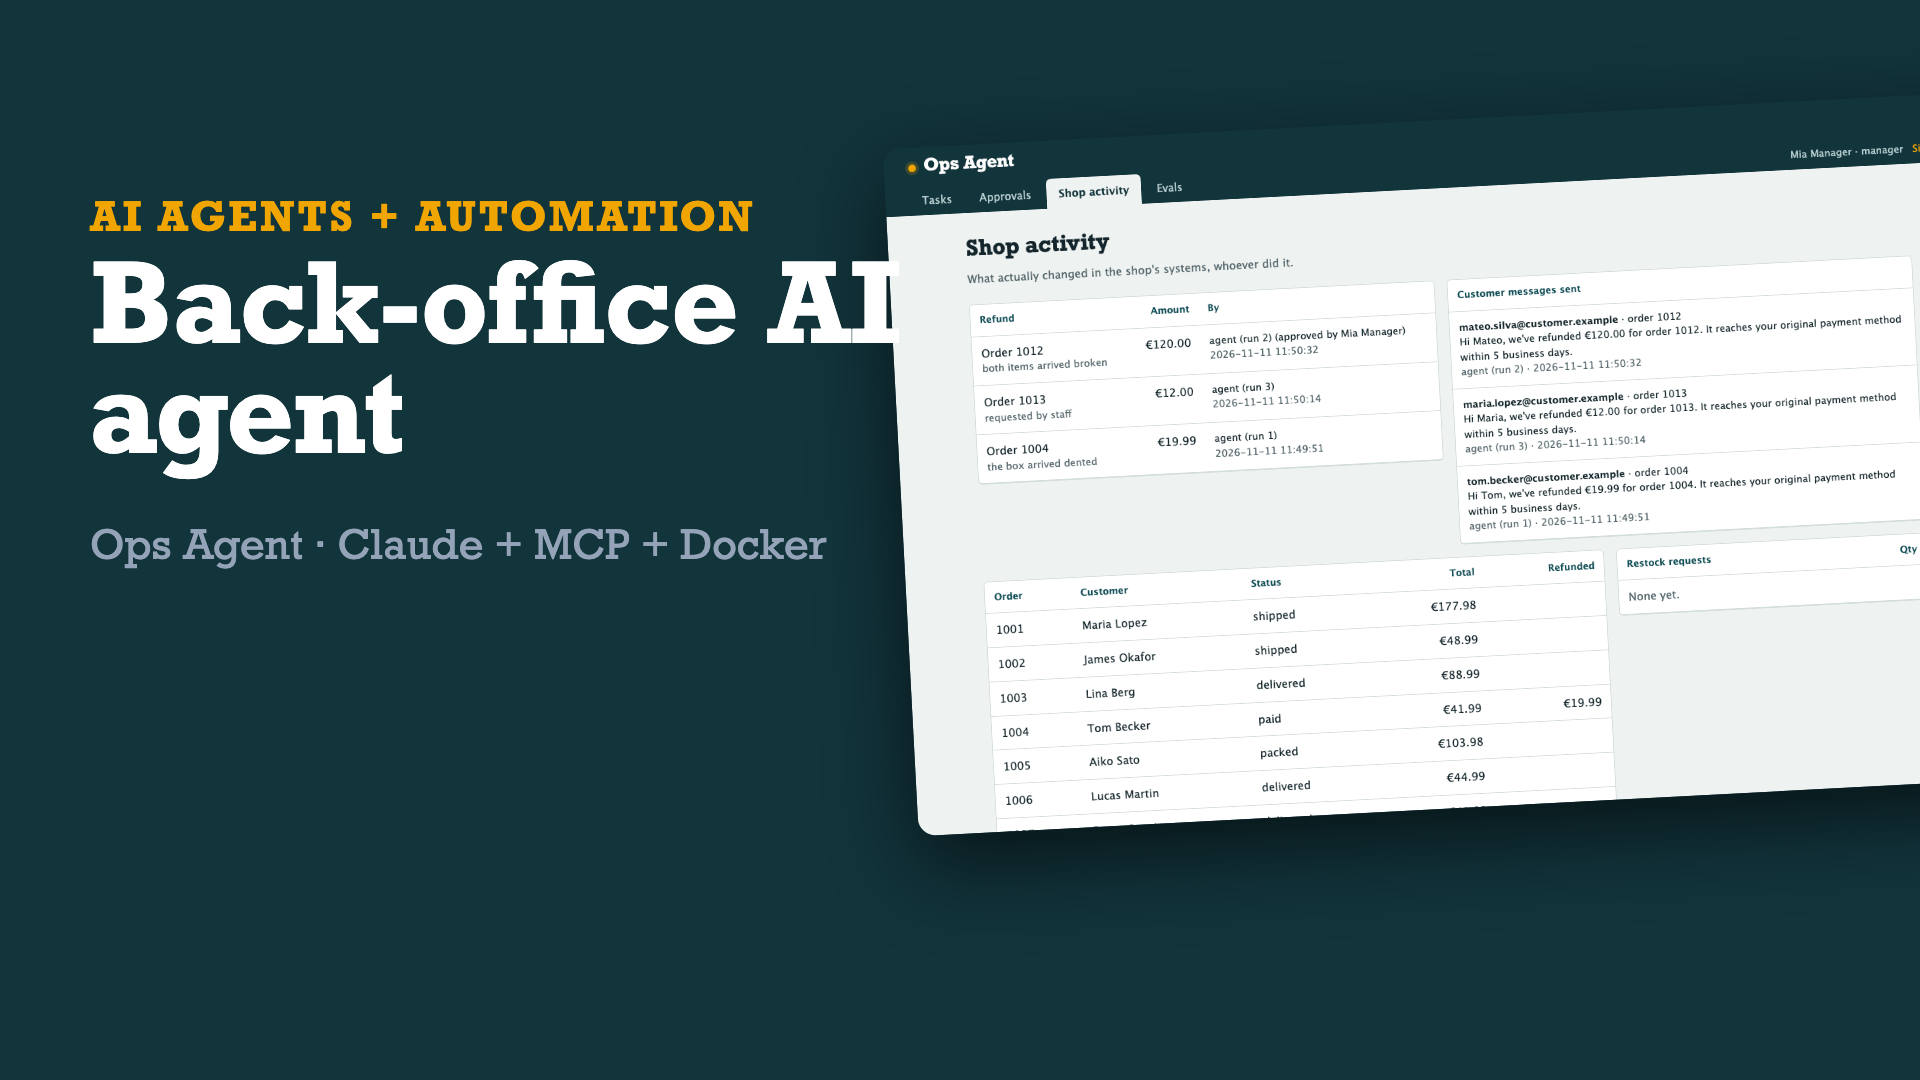
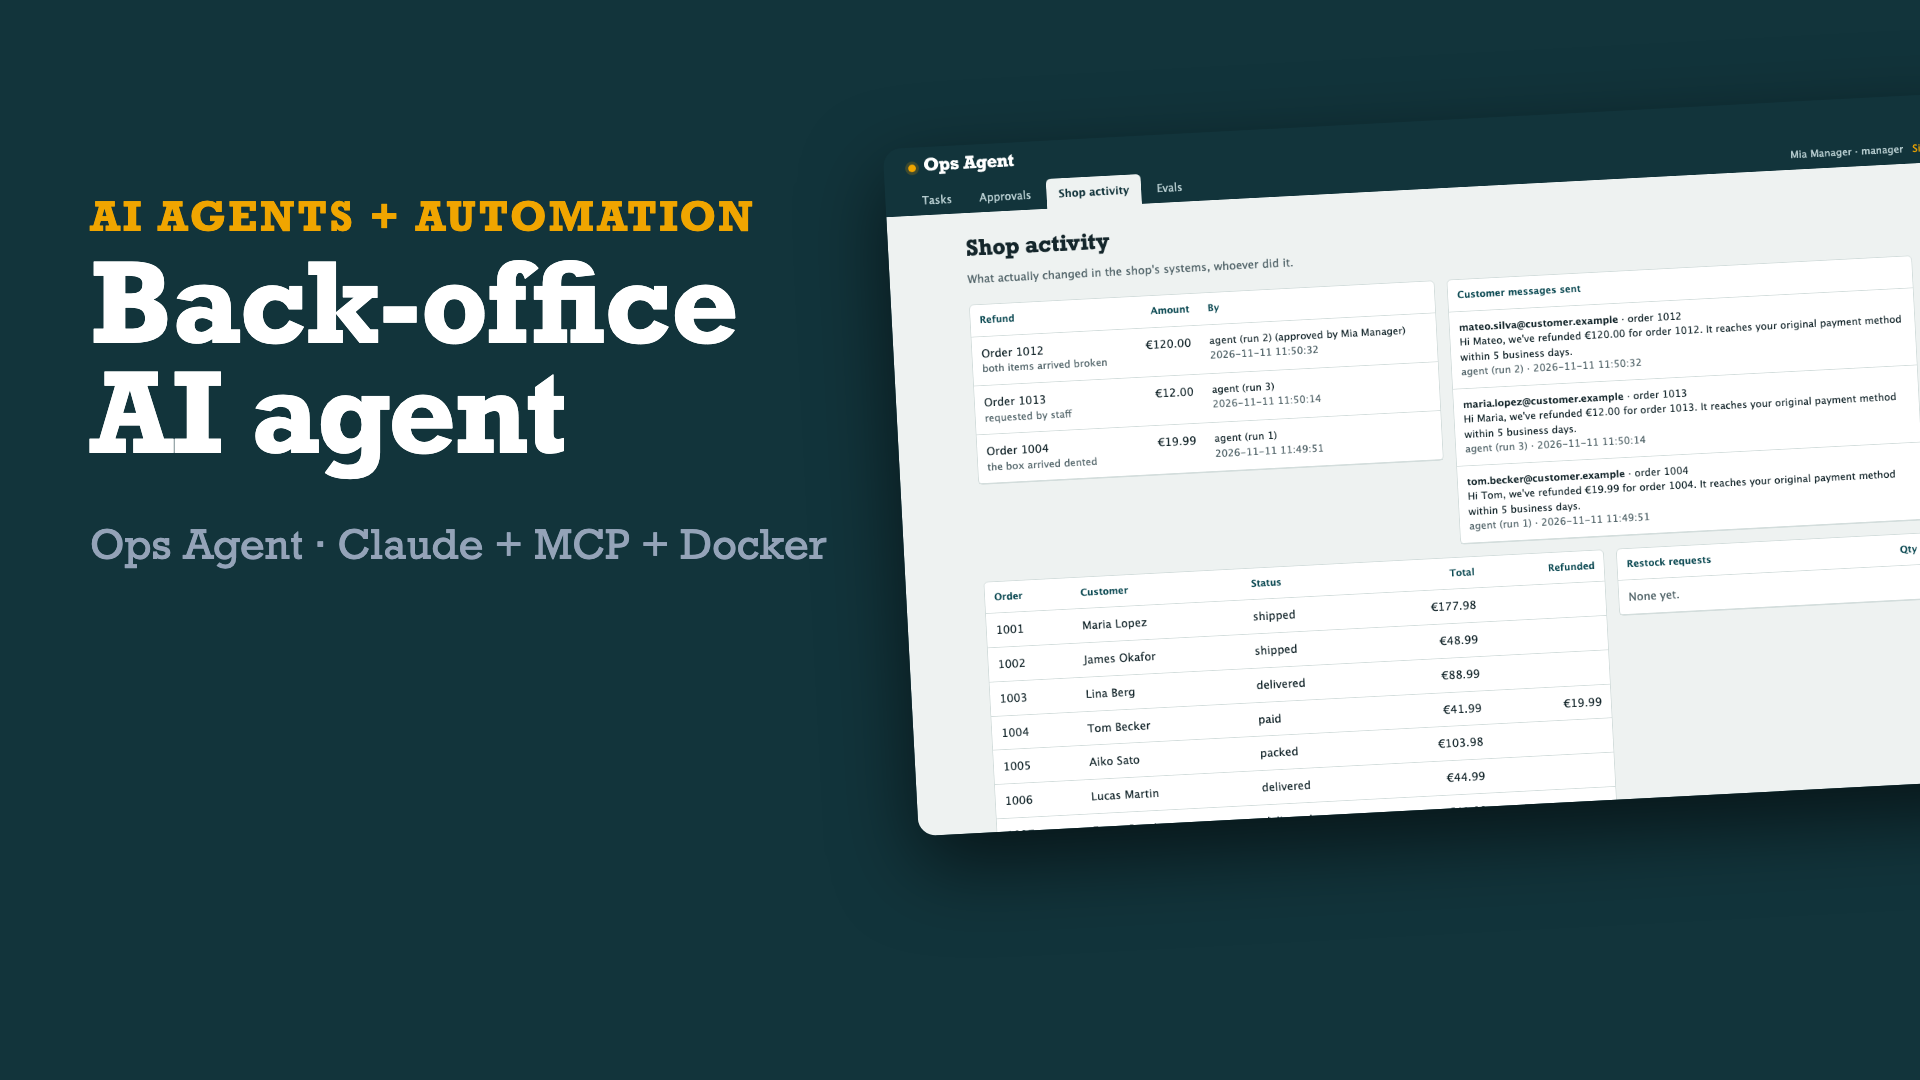
Ops Agent, Price Watch: keep the thumbnail title clear of the screenshot with the wider new fonts

Changed region(s): [[0.0312, 0.3361, 0.3125, 0.4583], [0.4062, 0.2444, 0.4688, 0.3361]]

diff --git a/projects/price-watch/demo/video/src/Composition.tsx b/projects/price-watch/demo/video/src/Composition.tsx
@@ -94,7 +94,7 @@ export const Thumb: React.FC = () => (
     <div style={{ position: "absolute", right: -80, top: 120, width: 1100, height: 688, borderRadius: 18, overflow: "hidden", transform: "rotate(-3deg)", boxShadow: "0 30px 80px rgba(0,0,0,.6)" }}>
       <Img src={staticFile("queue.png")} style={{ width: 1100, height: 688 }} />
     </div>
-    <div style={{ position: "absolute", left: 90, top: 200, width: 820, color: "white" }}>
+    <div style={{ position: "absolute", left: 90, top: 200, width: 740, color: "white" }}>
       <div style={{ color: ACCENT, fontSize: 40, fontWeight: 800, letterSpacing: 3 }}>SCRAPING + AUTOMATION</div>
       <div style={{ fontSize: 110, fontWeight: 900, lineHeight: 1.0, marginTop: 20 }}>Competitor price tracking</div>
       <div style={{ fontSize: 40, color: "#94a3b8", marginTop: 40 }}>Price Watch · Python + Slack + Docker</div>

diff --git a/projects/ops-agent/demo/video/src/Composition.tsx b/projects/ops-agent/demo/video/src/Composition.tsx
@@ -101,7 +101,7 @@ export const Thumb: React.FC = () => (
     <div style={{ position: "absolute", right: -80, top: 120, width: 1100, height: 688, borderRadius: 18, overflow: "hidden", transform: "rotate(-3deg)", boxShadow: "0 30px 80px rgba(0,0,0,.6)" }}>
       <Img src={staticFile("queue.png")} style={{ width: 1100, height: 688 }} />
     </div>
-    <div style={{ position: "absolute", left: 90, top: 200, width: 820, color: "white" }}>
+    <div style={{ position: "absolute", left: 90, top: 200, width: 740, color: "white" }}>
       <div style={{ color: ACCENT, fontSize: 40, fontWeight: 800, letterSpacing: 3 }}>AI AGENTS + AUTOMATION</div>
       <div style={{ fontSize: 110, fontWeight: 900, lineHeight: 1.0, marginTop: 20 }}>Back-office AI agent</div>
       <div style={{ fontSize: 40, color: "#94a3b8", marginTop: 40 }}>Ops Agent · Claude + MCP + Docker</div>
